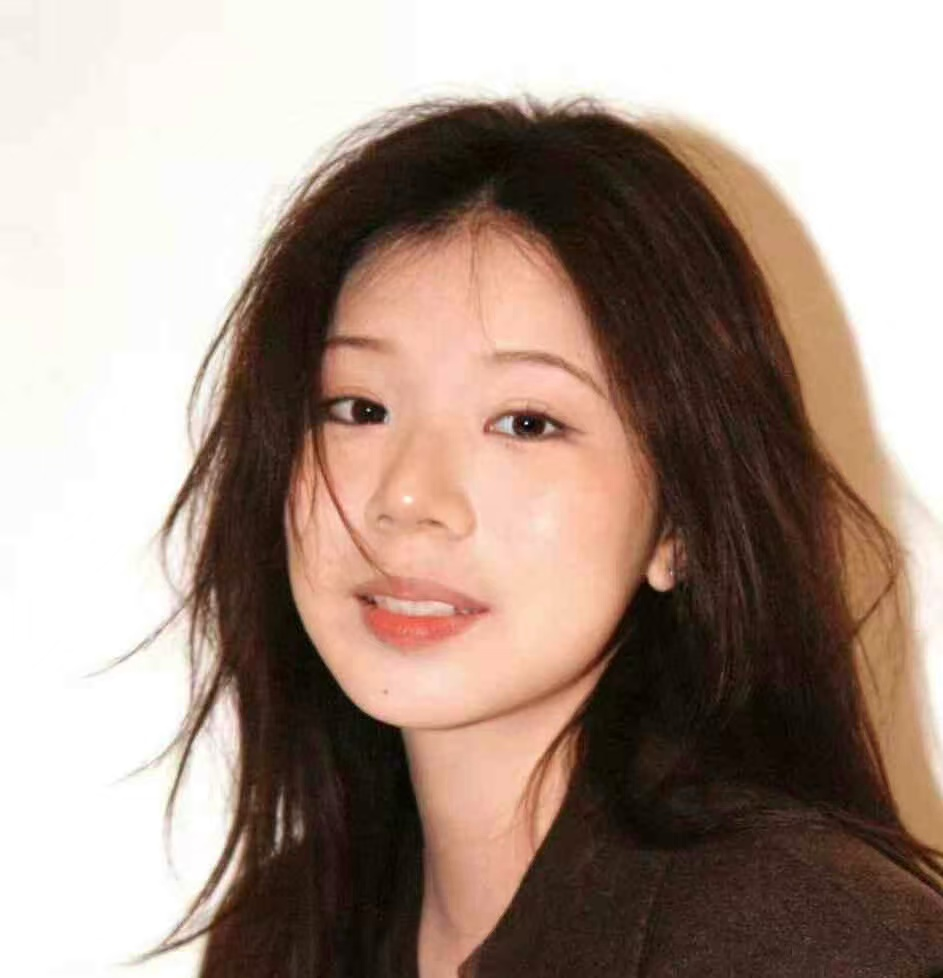
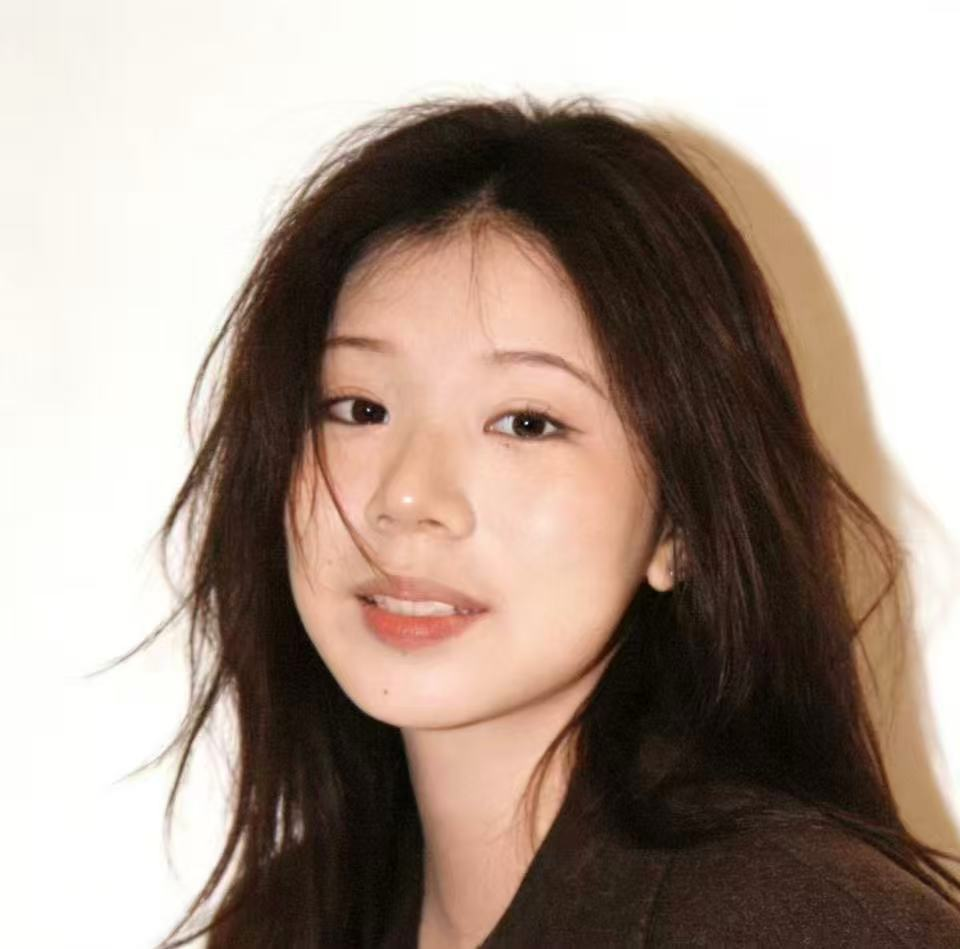
update

diff --git a/index.html b/index.html
@@ -53,6 +53,14 @@
       font-size: 0.82rem;
     }
 
+    #publications {
+      padding-bottom: 0.25rem !important;
+    }
+
+    #publications h2 {
+      margin-bottom: 0;
+    }
+
     /* Main intro + publication meta: same size/weight/line-height as body (e.g. research interests) */
     #about .col-md-9 > p,
     #publications ~ .blog .col-md-9 p.p-condense {
@@ -187,7 +195,7 @@
             <!-- ********** Publications ********* -->
             <!-- ********************************* -->
 
-            <div id="publications" class="row py-4 py-md-1">
+            <div id="publications" class="row py-2 mt-4">
               <h2>Publications</h2> 
             </div>
             <div class="blog classic-view py-md-2">
